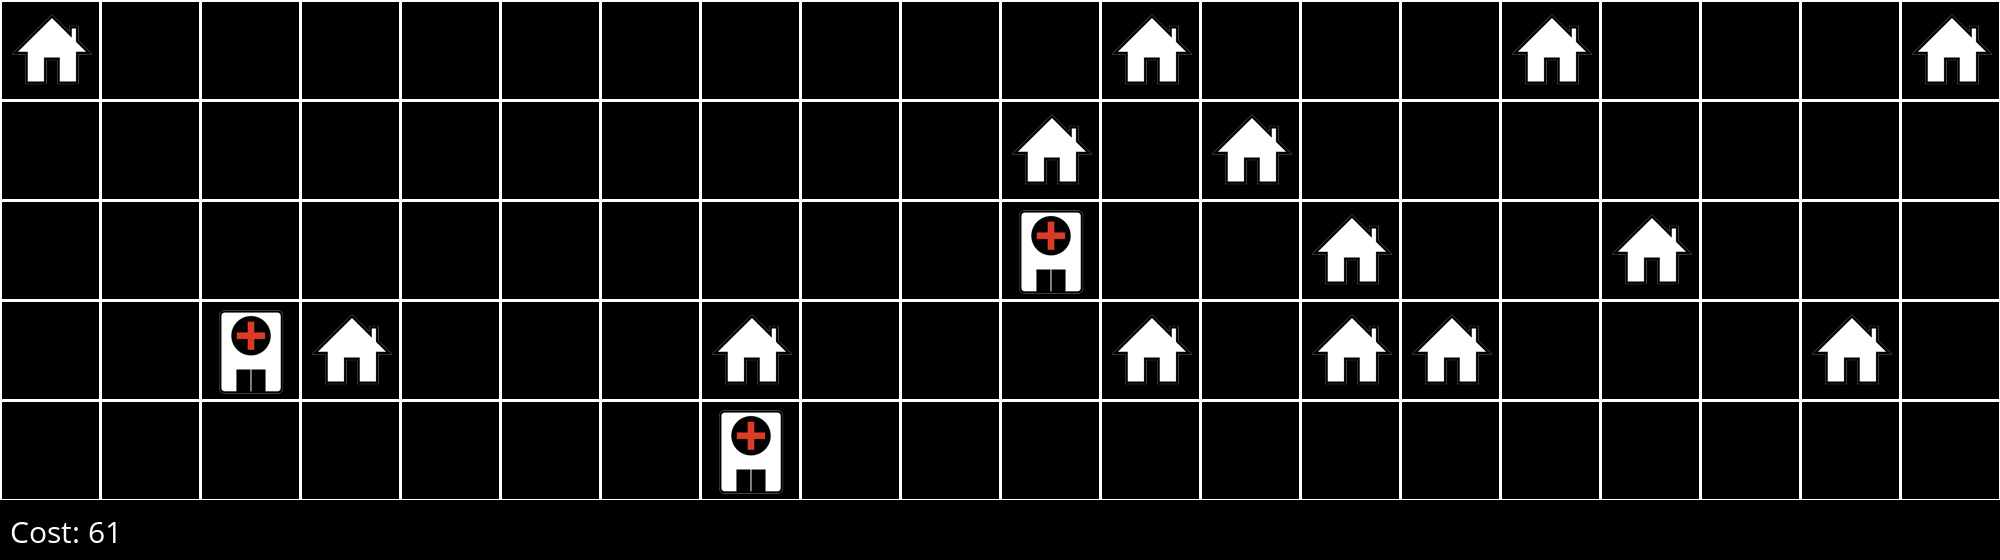
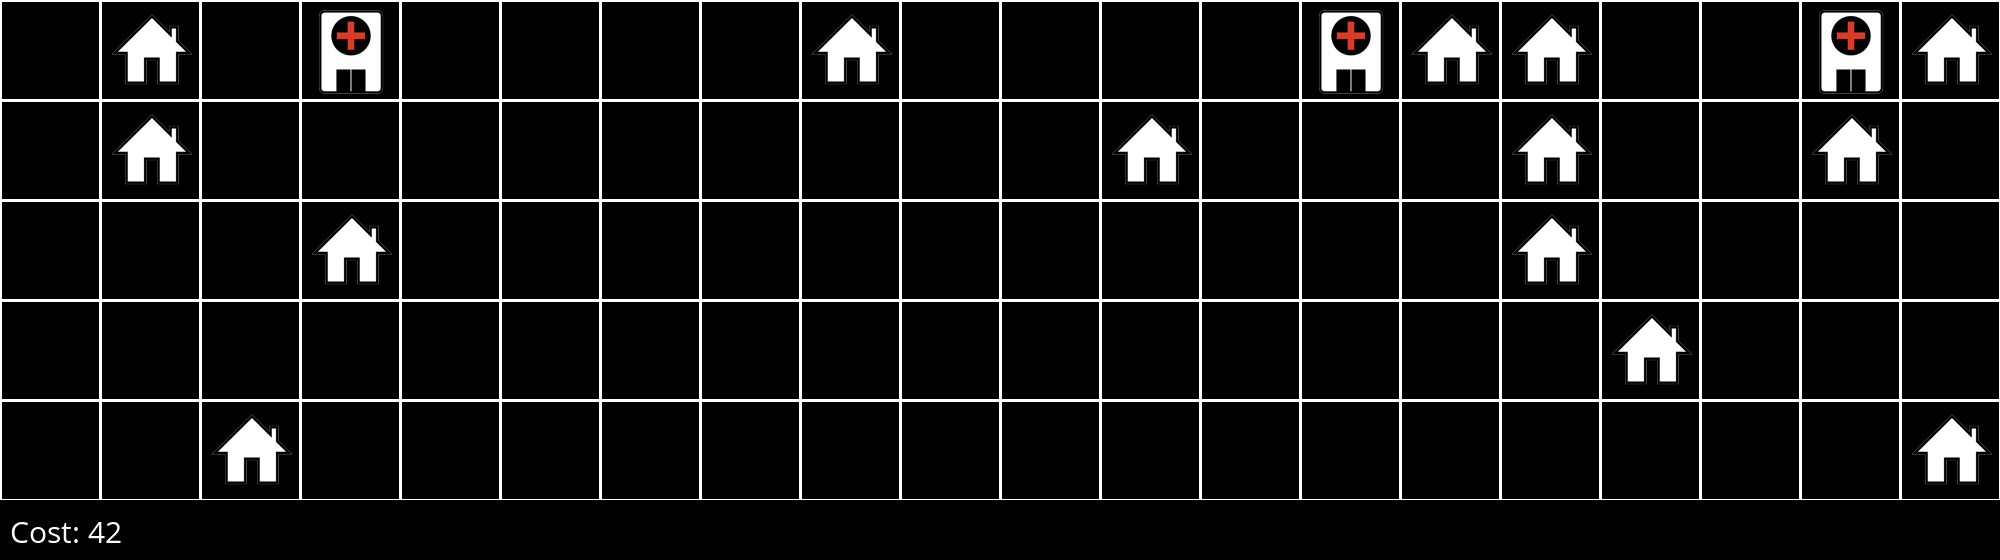
new

diff --git a/Search/aAlgorithm.py b/Search/aAlgorithm.py
@@ -1,41 +1,295 @@
+# from queue import PriorityQueue
+
+# def astar(graph, start, goal, heuristic):
+#     visited = set()
+#     priority_queue = PriorityQueue()
+
+#     priority_queue.put((0 + heuristic[start], 0, start))  # Corrected this line
+
+#     while not priority_queue.empty():
+#         current_cost, current_node = priority_queue.get()[1:]
+
+#         if current_node == goal:
+#             return "Goal found!"
+
+#         if current_node not in visited:
+#             visited.add(current_node)
+
+#             # Expand neighbors and enqueue them based on cost and heuristic
+#             for neighbor, cost in graph[current_node].items():
+#                 if neighbor not in visited:
+#                     new_cost = current_cost + cost
+#                     priority_queue.put((new_cost + heuristic[neighbor], new_cost, neighbor))  # Corrected this line
+
+#     return "Goal not reachable."
+
+# # Example usage (unchanged):
+# graph = {
+#     'A': {'B': 2, 'E': 4},
+#     'B': {'A': 2, 'C': 3, 'E': 1},
+#     'C': {'B': 3, 'D': 1},
+#     'D': {'C': 1},
+#     'E': {'A': 4, 'B': 1}
+# }
+
+# heuristic = {'A': 5, 'B': 3, 'C': 2, 'D': 1, 'E': 4}
+
+# start_node = 'A'
+# goal_node = 'B'
+
+# result_astar = astar(graph, start_node, goal_node, heuristic)
+# print(result_astar)
+import pygame
+import math
 from queue import PriorityQueue
 
-def astar(graph, start, goal, heuristic):
-    visited = set()
-    priority_queue = PriorityQueue()
+WIDTH = 500
+WIN = pygame.display.set_mode((WIDTH, WIDTH))
+pygame.display.set_caption("A* Path Finding Algorithm")
 
-    priority_queue.put((0 + heuristic[start], 0, start))  # Corrected this line
+RED = (255, 0, 0)
+GREEN = (0, 255, 0)
+BLUE = (0, 255, 0)
+YELLOW = (255, 255, 0)
+WHITE = (255, 255, 255)
+BLACK = (0, 0, 0)
+PURPLE = (128, 0, 128)
+ORANGE = (255, 165 ,0)
+GREY = (128, 128, 128)
+TURQUOISE = (64, 224, 208)
 
-    while not priority_queue.empty():
-        current_cost, current_node = priority_queue.get()[1:]
+class Spot:
+	def __init__(self, row, col, width, total_rows):
+		self.row = row
+		self.col = col
+		self.x = row * width
+		self.y = col * width
+		self.color = WHITE
+		self.neighbors = []
+		self.width = width
+		self.total_rows = total_rows
 
-        if current_node == goal:
-            return "Goal found!"
+	def get_pos(self):
+		return self.row, self.col
 
-        if current_node not in visited:
-            visited.add(current_node)
+	def is_closed(self):
+		return self.color == RED
 
-            # Expand neighbors and enqueue them based on cost and heuristic
-            for neighbor, cost in graph[current_node].items():
-                if neighbor not in visited:
-                    new_cost = current_cost + cost
-                    priority_queue.put((new_cost + heuristic[neighbor], new_cost, neighbor))  # Corrected this line
+	def is_open(self):
+		return self.color == GREEN
 
-    return "Goal not reachable."
+	def is_barrier(self):
+		return self.color == BLACK
 
-# Example usage (unchanged):
-graph = {
-    'A': {'B': 2, 'E': 4},
-    'B': {'A': 2, 'C': 3, 'E': 1},
-    'C': {'B': 3, 'D': 1},
-    'D': {'C': 1},
-    'E': {'A': 4, 'B': 1}
-}
+	def is_start(self):
+		return self.color == ORANGE
 
-heuristic = {'A': 5, 'B': 3, 'C': 2, 'D': 1, 'E': 4}
+	def is_end(self):
+		return self.color == TURQUOISE
 
-start_node = 'A'
-goal_node = 'may'
+	def reset(self):
+		self.color = WHITE
 
-result_astar = astar(graph, start_node, goal_node, heuristic)
-print(result_astar)
+	def make_start(self):
+		self.color = ORANGE
+
+	def make_closed(self):
+		self.color = RED
+
+	def make_open(self):
+		self.color = GREEN
+
+	def make_barrier(self):
+		self.color = BLACK
+
+	def make_end(self):
+		self.color = TURQUOISE
+
+	def make_path(self):
+		self.color = PURPLE
+
+	def draw(self, win):
+		pygame.draw.rect(win, self.color, (self.x, self.y, self.width, self.width))
+
+	def update_neighbors(self, grid):
+		self.neighbors = []
+		if self.row < self.total_rows - 1 and not grid[self.row + 1][self.col].is_barrier(): # DOWN
+			self.neighbors.append(grid[self.row + 1][self.col])
+
+		if self.row > 0 and not grid[self.row - 1][self.col].is_barrier(): # UP
+			self.neighbors.append(grid[self.row - 1][self.col])
+
+		if self.col < self.total_rows - 1 and not grid[self.row][self.col + 1].is_barrier(): # RIGHT
+			self.neighbors.append(grid[self.row][self.col + 1])
+
+		if self.col > 0 and not grid[self.row][self.col - 1].is_barrier(): # LEFT
+			self.neighbors.append(grid[self.row][self.col - 1])
+
+	def __lt__(self, other):
+		return False
+
+
+def h(p1, p2):
+	x1, y1 = p1
+	x2, y2 = p2
+	return abs(x1 - x2) + abs(y1 - y2)
+
+
+def reconstruct_path(came_from, current, draw):
+    path = []
+    while current in came_from:
+        current = came_from[current]
+        path.append(current.get_pos())
+        current.make_path()
+        draw()
+
+    path.reverse()  # Reverse the path to print it in the correct order
+    print("Path found:", path)  # Print the path
+
+
+
+def algorithm(draw, grid, start, end):
+    count = 0
+    open_set = PriorityQueue()
+    open_set.put((0, count, start))
+    came_from = {}
+    g_score = {spot: float("inf") for row in grid for spot in row}
+    g_score[start] = 0
+    f_score = {spot: float("inf") for row in grid for spot in row}
+    f_score[start] = h(start.get_pos(), end.get_pos())
+
+    open_set_hash = {start}
+
+    while not open_set.empty():
+        for event in pygame.event.get():
+            if event.type == pygame.QUIT:
+                pygame.quit()
+
+        current = open_set.get()[2]
+        open_set_hash.remove(current)
+
+        if current == end:
+            reconstruct_path(came_from, end, draw)
+            end.make_end()
+            print("Path found!")  # Print the message
+            return True
+
+        for neighbor in current.neighbors:
+            temp_g_score = g_score[current] + 1
+
+            if temp_g_score < g_score[neighbor]:
+                came_from[neighbor] = current
+                g_score[neighbor] = temp_g_score
+                f_score[neighbor] = temp_g_score + h(neighbor.get_pos(), end.get_pos())
+                if neighbor not in open_set_hash:
+                    count += 1
+                    open_set.put((f_score[neighbor], count, neighbor))
+                    open_set_hash.add(neighbor)
+                    neighbor.make_open()
+
+        draw()
+
+        if current != start:
+            current.make_closed()
+
+    print("Path not found!")  # Print the message if no path is found
+    return False
+
+
+
+def make_grid(rows, width):
+	grid = []
+	gap = width // rows
+	for i in range(rows):
+		grid.append([])
+		for j in range(rows):
+			spot = Spot(i, j, gap, rows)
+			grid[i].append(spot)
+
+	return grid
+
+
+def draw_grid(win, rows, width):
+	gap = width // rows
+	for i in range(rows):
+		pygame.draw.line(win, GREY, (0, i * gap), (width, i * gap))
+		for j in range(rows):
+			pygame.draw.line(win, GREY, (j * gap, 0), (j * gap, width))
+
+
+def draw(win, grid, rows, width):
+	win.fill(WHITE)
+
+	for row in grid:
+		for spot in row:
+			spot.draw(win)
+
+	draw_grid(win, rows, width)
+	pygame.display.update()
+
+
+def get_clicked_pos(pos, rows, width):
+	gap = width // rows
+	y, x = pos
+
+	row = y // gap
+	col = x // gap
+
+	return row, col
+
+
+def main(win, width):
+	ROWS = 30
+	grid = make_grid(ROWS, width)
+
+	start = None
+	end = None
+
+	run = True
+	while run:
+		draw(win, grid, ROWS, width)
+		for event in pygame.event.get():
+			if event.type == pygame.QUIT:
+				run = False
+
+			if pygame.mouse.get_pressed()[0]: # LEFT
+				pos = pygame.mouse.get_pos()
+				row, col = get_clicked_pos(pos, ROWS, width)
+				spot = grid[row][col]
+				if not start and spot != end:
+					start = spot
+					start.make_start()
+
+				elif not end and spot != start:
+					end = spot
+					end.make_end()
+
+				elif spot != end and spot != start:
+					spot.make_barrier()
+
+			elif pygame.mouse.get_pressed()[2]: # RIGHT
+				pos = pygame.mouse.get_pos()
+				row, col = get_clicked_pos(pos, ROWS, width)
+				spot = grid[row][col]
+				spot.reset()
+				if spot == start:
+					start = None
+				elif spot == end:
+					end = None
+
+			if event.type == pygame.KEYDOWN:
+				if event.key == pygame.K_SPACE and start and end:
+					for row in grid:
+						for spot in row:
+							spot.update_neighbors(grid)
+
+					algorithm(lambda: draw(win, grid, ROWS, width), grid, start, end)
+
+				if event.key == pygame.K_c:
+					start = None
+					end = None
+					grid = make_grid(ROWS, width)
+
+	pygame.quit()
+
+main(WIN, WIDTH)

diff --git a/Optimisation/hospitals/hospitals.py b/Optimisation/hospitals/hospitals.py
@@ -192,7 +192,7 @@ class Space():
 
 
 # Create a new space and add houses randomly
-s = Space(height=5, width=20, num_hospitals=3)
+s = Space(height=2, width=10, num_hospitals=3)
 for i in range(15):
     s.add_house(random.randrange(s.height), random.randrange(s.width))
 

diff --git a/Search/gbfs.py b/Search/gbfs.py
@@ -1,6 +1,6 @@
 from queue import PriorityQueue
 
-def gbfs(graph, start, goal, heuristic):
+def gbfs(graph, start, goal, heuristic) -> Literal['Goal found!', 'Goal not reachable.']:
     visited = set()
     priority_queue = PriorityQueue()
 
